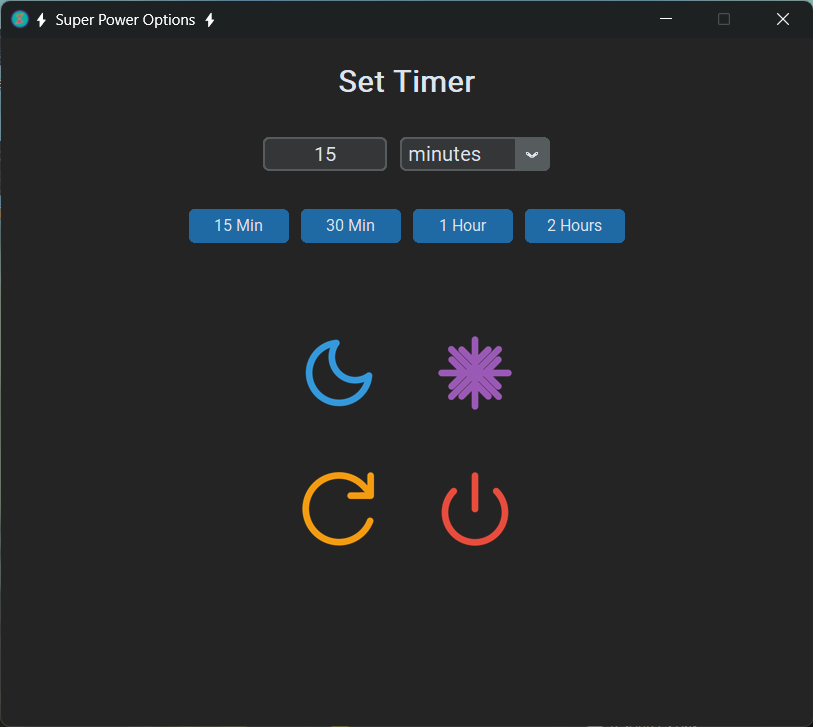
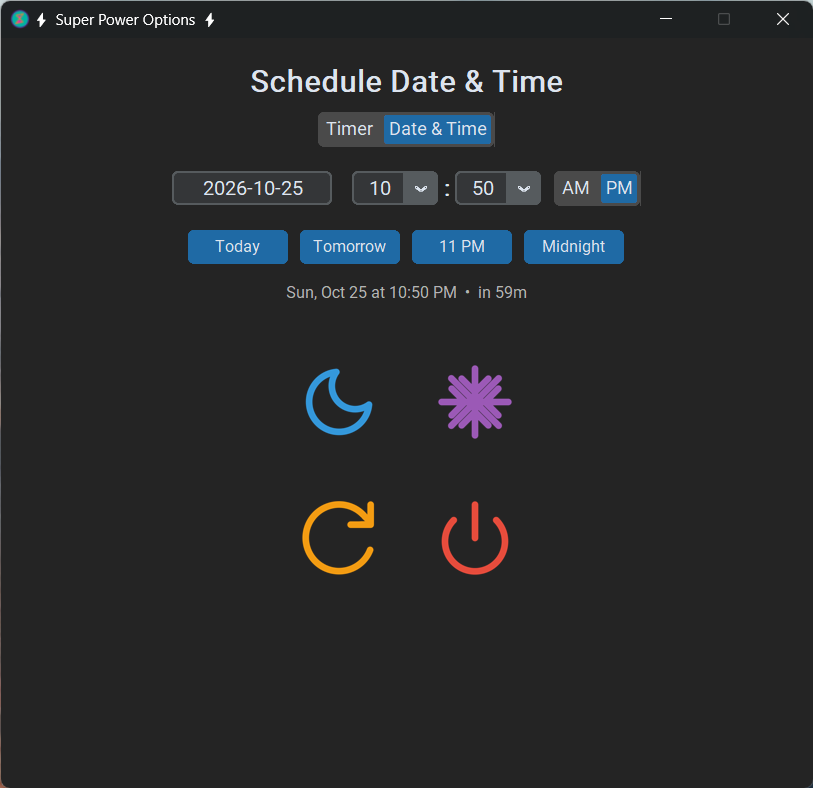
Update Super Power Options, Waypoint and ShadowBase cards
- Super Power Options: describe the cross-platform 1.1.0 release (Windows,
  macOS, Linux; timer or date and time scheduling; tray countdown; CI builds),
  refresh tags, link Download to the latest release, new Date & Time screenshot
- Waypoint: drop the ShadowBase integration claim, which the README no longer
  makes; mention that players can join from a web browser
- ShadowBase: neutral description with no third-party franchise or rules
  system named, remove the AdSense tag and the live site link until the IP
  consult is done

diff --git a/src/components/portfolio/projects-section.tsx b/src/components/portfolio/projects-section.tsx
@@ -42,7 +42,7 @@ const initialProjects: Project[] = [
   },
   {
     name: 'Waypoint',
-    description: 'A portable desktop companion for tabletop RPG campaigns. Features linked data maps, hex-grid play maps with tokens and scene art, planners, and peer-to-peer multiplayer so a GM can host and players join with a room code. Integrates with ShadowBase character sheets. Built on Electron.',
+    description: 'A portable desktop companion for tabletop RPG campaigns. Features linked data maps, hex-grid play maps with tokens and scene art, planners, and peer-to-peer multiplayer so a GM can host and players join with a room code. Players can join from their own copy or a web browser. Built on Electron.',
     image: '/images/waypoint.png',
     tags: ['Electron', 'JavaScript', 'WebRTC', 'P2P', 'Desktop App', 'Inno'],
     codeUrl: 'https://github.com/ImmuneMoon/Waypoint',
@@ -51,19 +51,18 @@ const initialProjects: Project[] = [
   },
   {
     name: 'Super Power Options',
-    description: "A user-friendly Windows application for scheduling power actions like timed shutdowns or sleep mode. It provides a convenient GUI, eliminating the need for command-line scripts.",
+    description: 'A cross-platform desktop app for scheduling sleep, hibernate, restart, or shutdown on Windows, macOS, and Linux. Count down from any duration or pick an exact date and time, follow the countdown from the system tray, and the app keeps the machine awake until it acts. GitHub Actions builds releases for all three platforms.',
     image: '/images/super-power-options.png',
-    tags: ['Python', 'Custom-Tkinter', 'GUI', 'Windows Scripting', 'CLI'],
-    codeUrl: 'https://github.com/ImmuneMoon/Super-Power-Options/releases',
-    codeButtonText: 'GitHub Release',
+    tags: ['Python', 'CustomTkinter', 'Cross-Platform', 'Windows', 'macOS', 'Linux', 'PyInstaller', 'GitHub Actions'],
+    codeUrl: 'https://github.com/ImmuneMoon/Super-Power-Options',
+    demoUrl: 'https://github.com/ImmuneMoon/Super-Power-Options/releases/latest',
+    demoButtonText: 'Download'
   },
   {
     name: 'ShadowBase Campaign Manager',
-    description: 'A comprehensive online campaign management tool for a "Star Wars" GURPS campaign. It provides tools for character creation that works in conjunction with the FoundryVTT system, resource management, campaign documentation, and is installable as a PWA. Built with Next.js, Firebase, and Genkit.',
+    description: 'A campaign management web app built for a tabletop RPG group. It handles character creation that syncs with a companion Foundry VTT system, resource tracking, and campaign documentation, and installs as a PWA. Built with Next.js, Firebase, and Genkit.',
     image: '/images/shadowbase.png',
-    tags: ['Next.js', 'React', 'Firebase', 'Genkit', 'Tailwind CSS', 'PWA', 'AdSense', 'FoundryVTT'],
-    demoUrl: 'https://shadow-base.com/',
-    demoButtonText: 'Live Site'
+    tags: ['Next.js', 'React', 'Firebase', 'Genkit', 'Tailwind CSS', 'PWA', 'FoundryVTT']
   },
   {
     name: 'Pocket Tabs',
